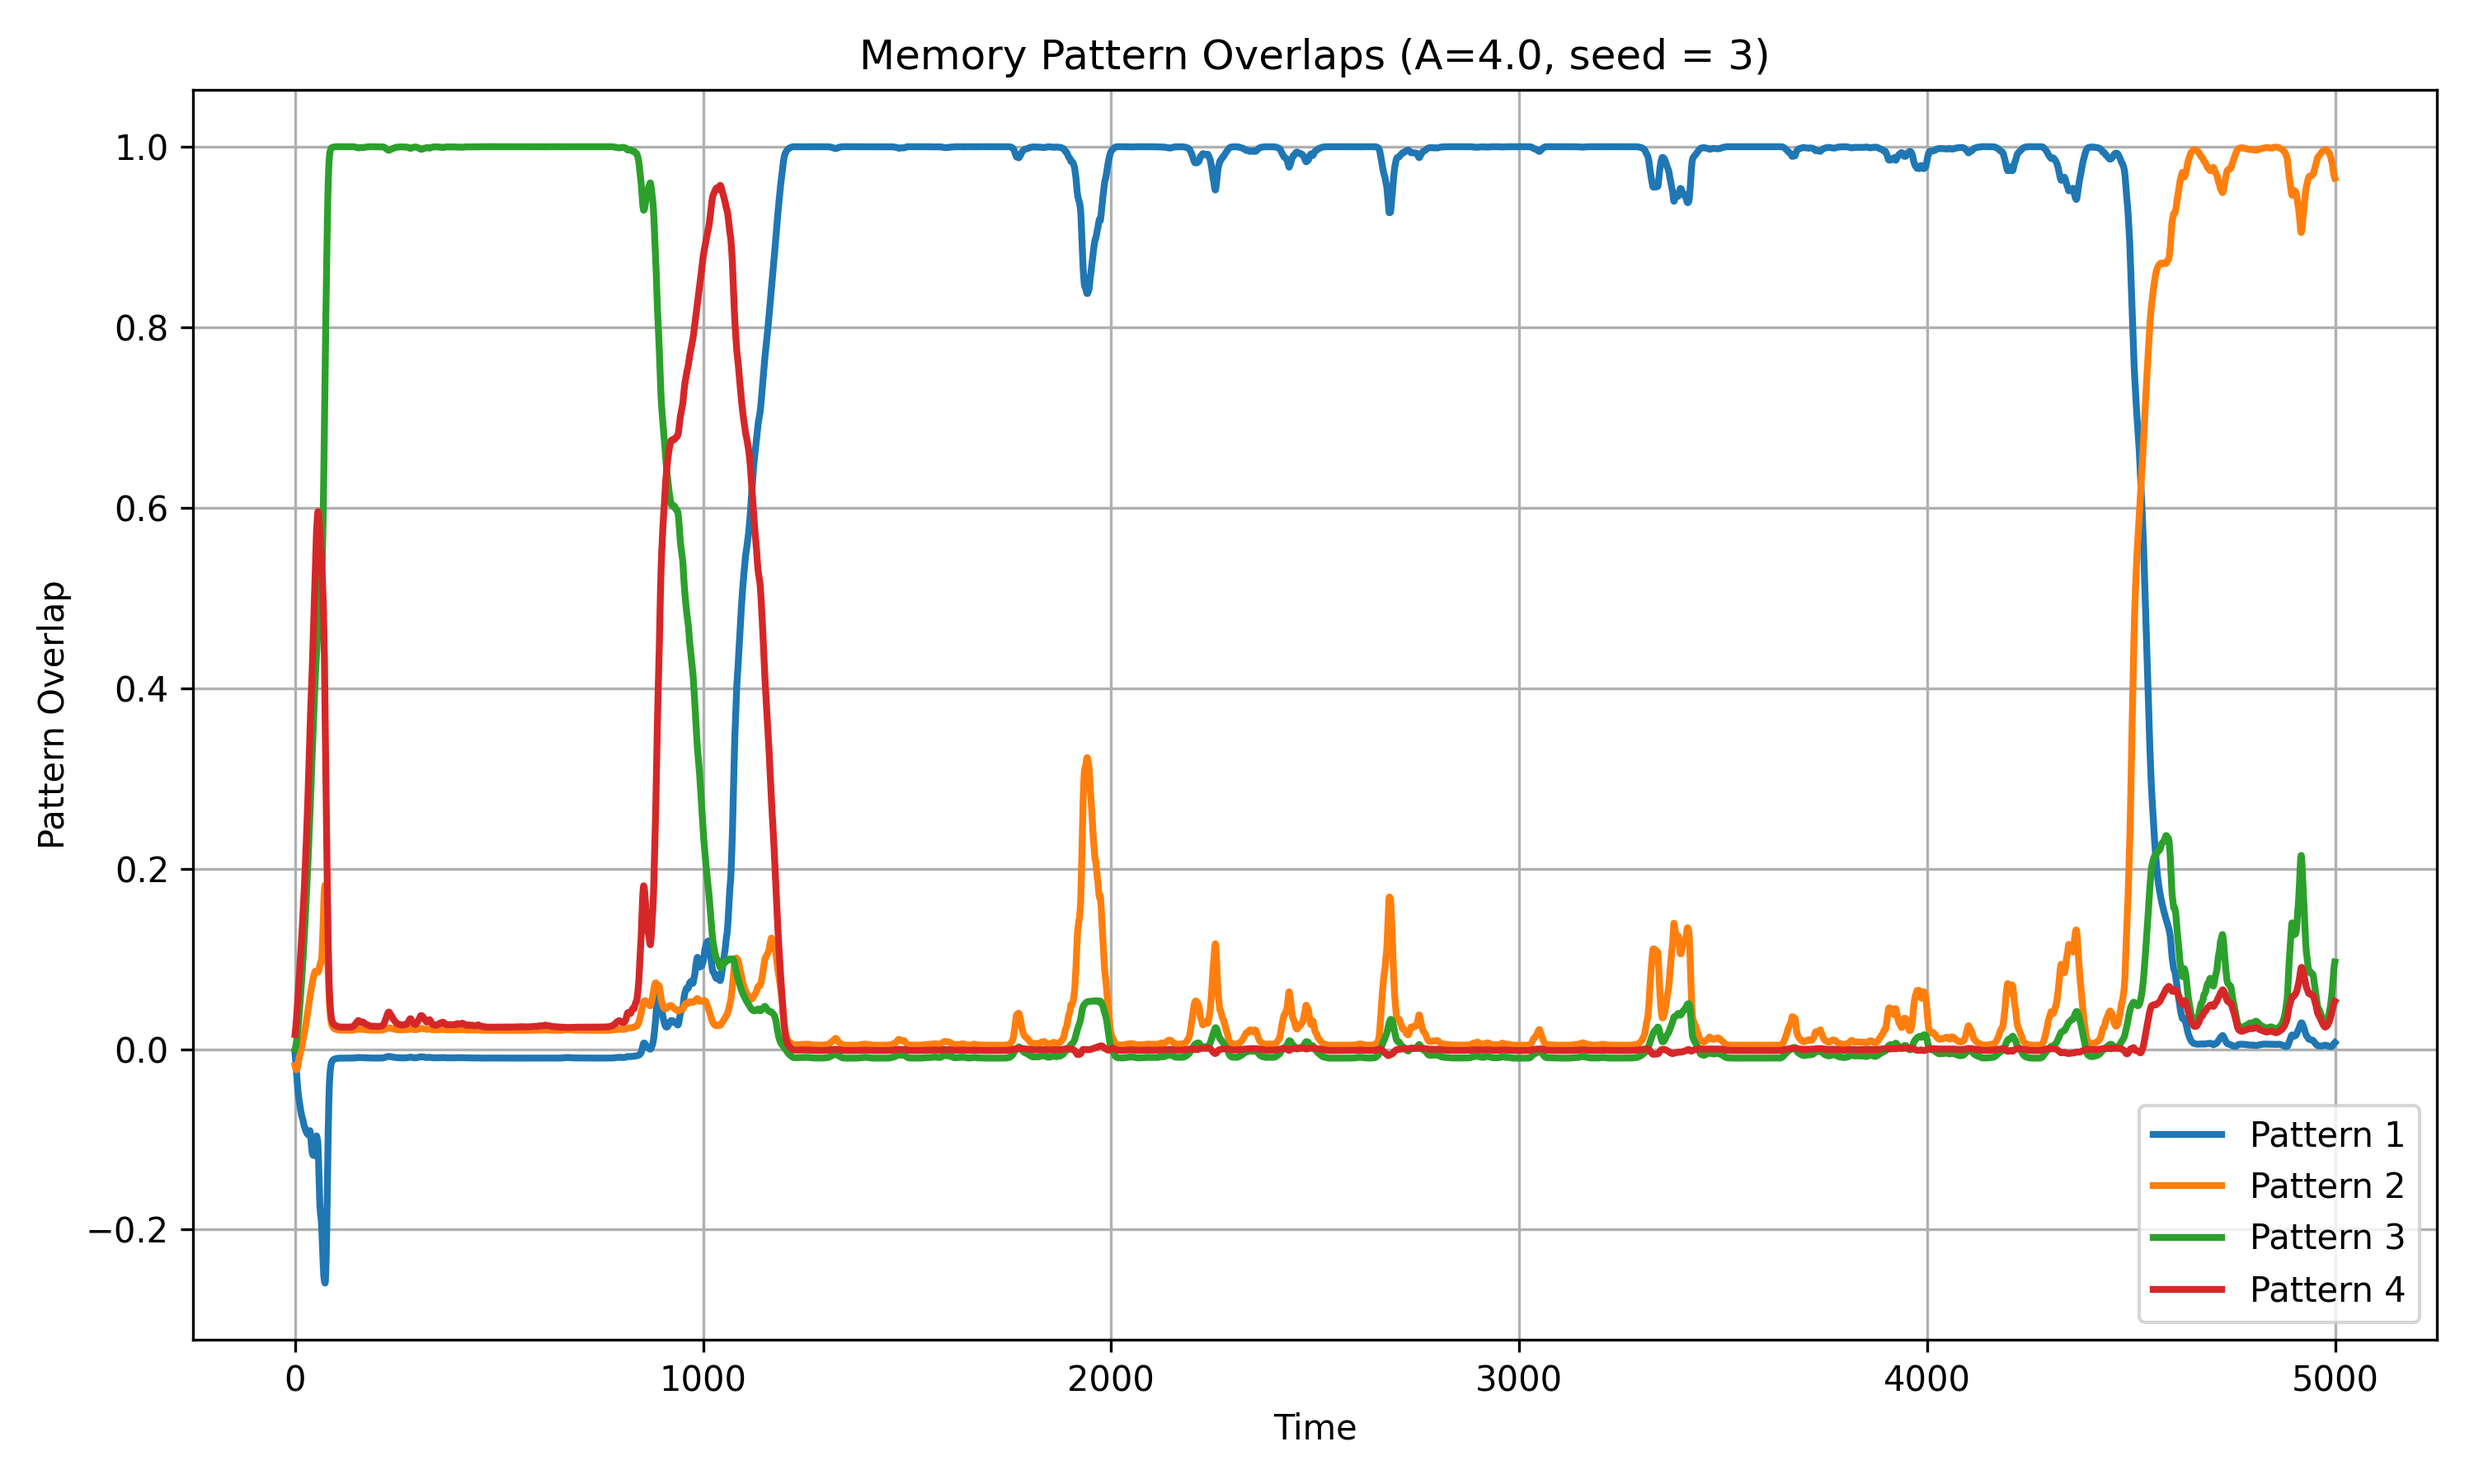
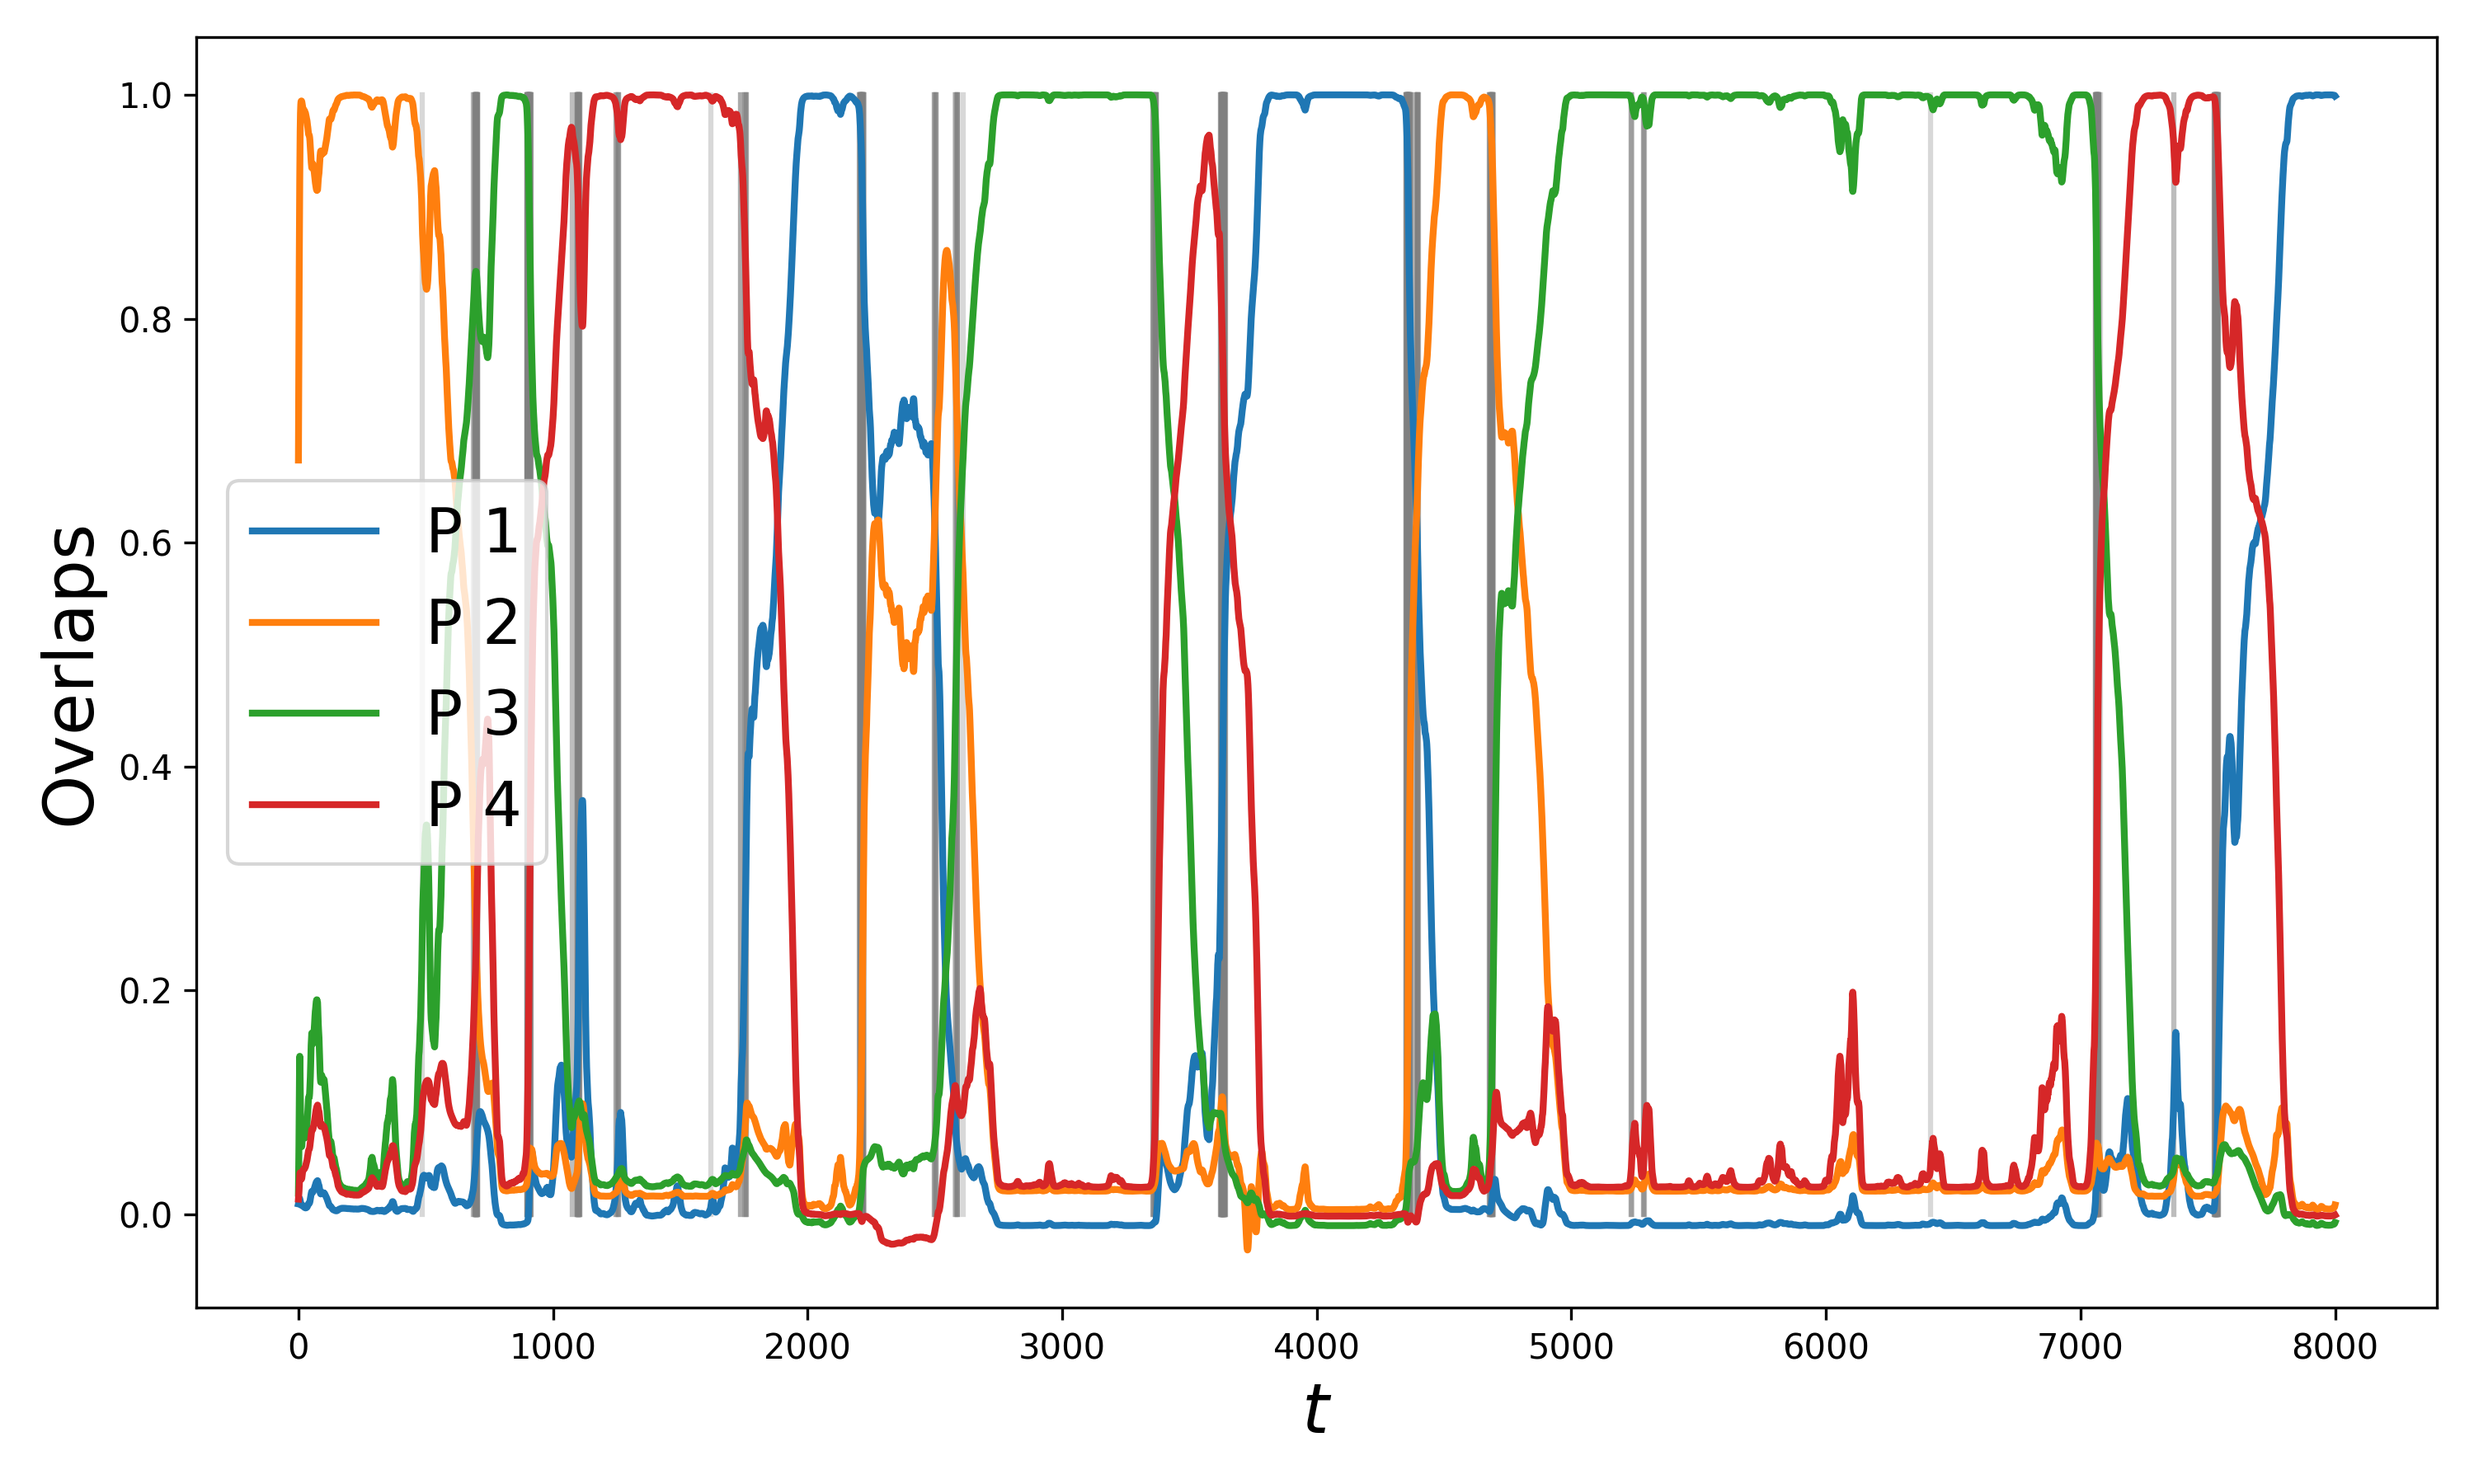
graphs

diff --git a/src/simulation.py b/src/simulation.py
@@ -192,7 +192,8 @@ def simulation():
         p=p,
         eta=eta,
         pattern_idx=pattern_idx,
-        noise_level=noise_level
+        noise_level=noise_level,
+        seed=seed+19
     )
 
     # Simulation time span
@@ -471,9 +472,9 @@ def simulation():
     ax = axs[0, 0]
     for i in range(n_plot):
         ax.plot(t, u[:, i], alpha=0.7, label=f'u_{i+1}')
-    ax.set_xlabel('Time')
-    ax.set_ylabel('Current')
-    ax.set_title(f'Neural Currents $u_i$ (first {n_plot} neurons)')
+    ax.set_xlabel('$t$', fontsize = 20)
+    ax.set_ylabel('$u_i$', fontsize = 20)
+    # ax.set_title(f'Neural Currents $u_i$ (first {n_plot} neurons)')
     ax.grid(True)
     if n_plot <= 5:
         ax.legend()
@@ -482,29 +483,15 @@ def simulation():
     ax = axs[0, 1]
     for i in range(n_plot):
         ax.plot(t, phi_u[:, i], alpha=0.7, label=f'φ(u_{i+1})')
-    ax.set_xlabel('Time')
-    ax.set_ylabel('FR')
-    ax.set_title(f'Firing Rates φ($u_i$) (first {n_plot} neurons)')
+    ax.set_xlabel('$t$', fontsize = 20)
+    ax.set_ylabel('FR', fontsize = 20)
+    # ax.set_title(f'Firing Rates φ($u_i$) (first {n_plot} neurons)')
     ax.grid(True)
     if n_plot <= 5:
         ax.legend()
 
-    # 3. Pattern Overlaps (bottom-left)
+    # 3. OU Process (bottom-right)
     ax = axs[1, 0]
-    if p > 0 and overlaps is not None:
-        for i in range(p):
-            ax.plot(t, overlaps[:, i], label=f'Pattern {i+1}', linewidth=2)
-        ax.set_xlabel('Time')
-        ax.set_ylabel('Pattern Overlap')
-        ax.set_title(f'Memory Pattern Overlaps (A={A_S}, seed = {seed})')
-        ax.grid(True)
-        ax.legend()
-    else:
-        ax.text(0.5, 0.5, 'No patterns to display', ha='center', va='center', transform=ax.transAxes)
-        ax.set_title('Pattern Overlaps')
-
-    # 4. OU Process (bottom-right)
-    ax = axs[1, 1]
     try:
         if zeta_array.size == 1:
             # Constant zeta case
@@ -519,21 +506,45 @@ def simulation():
                 tau_zeta_val = ou_params.get('tau_zeta', tau_zeta)
                 zeta_bar_val = ou_params.get('zeta_bar', zeta_bar)
                 sigma_zeta_val = ou_params.get('sigma_zeta', sigma_zeta)
-                legend_label = f'ζ(t) ($τ_ζ$={tau_zeta_val:.1f}, $\\bar{{ζ}}$={zeta_bar_val:.1f}, $σ_ζ$={sigma_zeta_val:.2f})'
-                ax.set_title('Ornstein-Uhlenbeck Control Signal ζ(t)')
+                legend_label = f'$τ_ζ$={tau_zeta_val:.2f}, $\\bar{{ζ}}$={zeta_bar_val:.2f}, $σ_ζ$={sigma_zeta_val:.2f}'
+                # set up an array with spikes of the OU process over a threshold (2.0)
+                spikes = np.where(zeta_array > 2.0)[0]
+                # ax.set_title('Ornstein-Uhlenbeck Control Signal ζ(t)')
             else:
                 legend_label = 'ζ(t)'
-                ax.set_title('Control Signal ζ(t)')
-            ax.plot(t, zeta_array, color='red', linewidth=1.5, label=legend_label)
-            ax.legend()
+                # ax.set_title('Control Signal ζ(t)')
+            # plot a line at 2
+            ax.axhline(y=2.0, color='gray', alpha=0.5)
+            ax.plot(t, zeta_array, color='k', linewidth=1.5, label=legend_label)
+            ax.legend(fontsize = 18)
 
-        ax.set_xlabel('Time')
-        ax.set_ylabel('ζ(t)')
+        ax.set_xlabel('$t$', fontsize = 20)
+        ax.set_ylabel('$\zeta(t)$', fontsize = 20)
         ax.grid(True)
     except Exception as e:
         logger.error(f"Warning: Could not create ζ(t) plot - {e}")
         ax.text(0.5, 0.5, f'OU Process Error: {e}', ha='center', va='center', transform=ax.transAxes)
         ax.set_title('OU Process')
+    
+    # 4. Pattern Overlaps (bottom-left)
+    ax = axs[1, 1]
+    # plot spikes if OU process had spikes
+    if spikes.size > 0:
+        for spike_time in t[spikes]:
+            ax.axvline(x=spike_time, color='gray', linestyle='--', alpha=0.3)
+    # plot a line at 0.8
+    ax.axhline(y=0.8, color='gray', alpha=0.5)
+    if p > 0 and overlaps is not None:
+        for i in range(p):
+            ax.plot(t, overlaps[:, i], label=f'P {i+1}', linewidth=2)
+        ax.set_xlabel('$t$', fontsize = 20)
+        ax.set_ylabel('Overlaps', fontsize = 20)
+        # ax.set_title(f'Memory Pattern Overlaps (A={A_S}, seed = {seed})')
+        ax.grid(False)
+        ax.legend()
+    else:
+        ax.text(0.5, 0.5, 'No patterns to display', ha='center', va='center', transform=ax.transAxes)
+        ax.set_title('Pattern Overlaps')
     
     plt.tight_layout()
     
@@ -542,7 +553,7 @@ def simulation():
     plt.savefig(complete_fig_path, dpi=300)
     
     # Extract and save individual plots from the 2x2 figure
-    titles = ['neural_currents', 'firing_rates', 'pattern_overlaps', 'ou_process']
+    titles = ['neural_currents', 'firing_rates', 'ou_process', 'pattern_overlaps']
     
     for i, ax in enumerate(axs.flat):
         fig_single, ax_single = plt.subplots(figsize=(10, 6))
@@ -555,14 +566,14 @@ def simulation():
                           linewidth=line.get_linewidth())
         
         # Copy title, labels, and legend
-        ax_single.set_title(ax.get_title())
-        ax_single.set_xlabel(ax.get_xlabel())
-        ax_single.set_ylabel(ax.get_ylabel())
-        ax_single.grid(True)
+        # ax_single.set_title(ax.get_title())
+        ax_single.set_xlabel(ax.get_xlabel(), fontsize = 20)
+        ax_single.set_ylabel(ax.get_ylabel(), fontsize = 20)
+        ax_single.grid(False)
         
         # Add legend if original had one
         if ax.get_legend() is not None:
-            ax_single.legend()
+            ax_single.legend(fontsize = 18)
         
         # Copy text annotations if any
         for text in ax.texts:

diff --git a/src/energy_plots.py b/src/energy_plots.py
@@ -166,24 +166,59 @@ def main():
     plt.savefig(os.path.join(output_dir, "energy_and_overlaps.png"))
     if show_sim_plots:
         plt.show()
+    
+    # Make a new plot but just with overlaps and energy
+    # make sure the energy takes the color of the winning overlap
+    fig, axs = plt.subplots(2, 1, figsize=(13, 8), gridspec_kw={'height_ratios': [1, 2]})
 
-    plt.figure(figsize=(12, 8))
-    plt.subplot(211)
     for i in range(p):
-        plt.plot(t, overlaps[i], label=f'P {i+1}')
-    plt.ylabel("Overlap")
-    plt.legend()
-    plt.subplot(212)
-    plt.plot(t, proj_flux_symm, label='Symm', color='purple')
-    plt.plot(t, proj_flux_asymm, label='Asymm', color='orange')
-    plt.axhline(0, color='gray', linestyle='--', alpha=0.5)
-    plt.ylabel("Flux Proj on Dynamics")
-    plt.xlabel("$t$")
-    plt.legend()
+        axs[0].plot(t, overlaps[i], label=f'P {i+1}')
+    axs[0].set_ylabel("Overlaps", fontsize=20)
+    axs[0].legend(fontsize=18)
+    axs[0].tick_params(axis='both', labelsize=18)
+
+
+    winning_pattern = np.argmax(overlaps, axis=0)
+    colors = plt.get_cmap('tab10').colors[:p]
+    E_symm_traj_N = E_symm_traj / N
+    for i in range(len(t)-1):
+        axs[1].plot(t[i:i+2], E_symm_traj_N[i:i+2], color=colors[winning_pattern[i]], linewidth=2)
+
+    axs[1].set_ylabel("$E/N$", fontsize=20)
+    axs[1].set_xlabel("$t$", fontsize=20)
+    axs[1].set_ylim(min(E_symm_traj_N[300:]) - 1, max(E_symm_traj_N[300:]) + 1)
+    axs[1].tick_params(axis='both', labelsize=18)
+
     plt.tight_layout()
-    plt.savefig(os.path.join(output_dir, "overlaps_and_flux_projection.png"))
+    plt.savefig(os.path.join(output_dir, "overlaps_energy.png"), bbox_inches='tight')
+
     if show_sim_plots:
         plt.show()
+
+    fig, axs = plt.subplots(2, 1, figsize=(12, 8), gridspec_kw={'height_ratios': [1, 2]})
+
+    for i in range(p):
+        axs[0].plot(t, overlaps[i], label=f'P {i+1}')
+    axs[0].set_ylabel("Overlaps", fontsize=20)
+    axs[0].legend(fontsize=18)
+    axs[0].tick_params(axis='both', labelsize=18)
+    axs[0].set_xlim(4100, 5100)
+
+    axs[1].plot(t, proj_flux_symm/N, label='Symm', color='k', alpha=0.6)
+    axs[1].plot(t, proj_flux_asymm/N, label='Asymm', color='k', ls='dotted')
+    axs[1].axhline(0, color='gray', linestyle='--', alpha=0.5)
+    axs[1].set_ylabel("Force Proj. / N", fontsize=20)
+    axs[1].set_xlabel("$t$", fontsize=20)
+    axs[1].legend(fontsize=18)
+    axs[1].tick_params(axis='both', labelsize=18)
+    axs[1].set_xlim(4100, 5100)
+
+    plt.tight_layout()
+    plt.savefig(os.path.join(output_dir, "overlaps_and_projections.png"))
+
+    if show_sim_plots:
+        plt.show()
+
 
 
 """

diff --git a/src/parameters.py b/src/parameters.py
@@ -53,7 +53,7 @@ apply_er_to_asymmetric = False  # Apply Erdős-Rényi to asymmetric component
 # Time and integration parameters
 tau = 20.0              # Time constant for neural dynamics
 t_start = 0.0           # Simulation start time
-t_end = 20.0           # Simulation end time
+t_end = 8000.0           # Simulation end time
 dt = 0.4                # Time step for simulation output (increased for efficiency)
 
 # Performance optimization
@@ -61,7 +61,7 @@ use_numba = True        # Enable Numba JIT compilation for large networks (N > 1
 use_g = True  # Whether to apply g function to patterns, default is True in Recanatesi et al.
 
 # Initial condition settings
-init_cond_type = "Random"  # Options: "Random", "Zero", "Memory Pattern", "Near Memory Pattern", "Negative Memory Pattern"
+init_cond_type = "Near Memory Pattern"  # Options: "Random", "Zero", "Memory Pattern", "Near Memory Pattern", "Negative Memory Pattern"
 pattern_idx = 1         # Which pattern to use (0-indexed) if using pattern-based init - neglected in multiple simulations
 noise_level = 0.5       # Noise level if using "Near Memory Pattern" init
 
@@ -84,7 +84,7 @@ constant_zeta = 1.     # Constant ζ value when OU is not used
 n_display = 10             # Maximum number of neurons to display in plots (reduced for 10k)
 show_sim_plots = False  # Whether to show individual plots for each variable
 plot_connectivity_matrices = False,
-plot_heatmap= False,
+plot_heatmap= True,
 verbose = False
 single_dir_name = "simulation_results_silly"
 multiple_dir_name = "multiple_simulations"

diff --git a/src/main.py b/src/main.py
@@ -194,6 +194,10 @@ def multiple_simulations():
     os.makedirs(plot_dir, exist_ok=True)
     logger.info(f"Output directories created at: {output_dir}")
 
+    # firing rates subdirectory
+    firing_rates_dir = os.path.join(npy_dir, "firing_rates")
+    os.makedirs(firing_rates_dir, exist_ok=True)
+
     connectivity_path_symmetric = os.path.join(npy_dir, "connectivity_symmetric.npy")
     connectivity_path_asymmetric = os.path.join(npy_dir, "connectivity_asymmetric.npy")
     phi_eta_path = os.path.join(npy_dir, "phi_memory_patterns.npy")
@@ -350,10 +354,6 @@ def multiple_simulations():
             logger.info("Numba optimization disabled")
     else:
         None
-    
-    # Saving common data in main npy dir
-    npy_dir = os.path.join(output_dir, "npy")
-    os.makedirs(npy_dir, exist_ok=True)
 
     # Save simulation parameters
     params = {

diff --git a/src/loader.py b/src/loader.py
@@ -35,9 +35,9 @@ phi_u = np.load(os.path.join(npy_dir, "firing_rates.npy"))
 zeta = np.load(os.path.join(npy_dir, "ou_process.npy"))
 params = np.load(os.path.join(npy_dir, "simulation_parameters.npy"), allow_pickle=True).item()
 
-N = params['N']
-n_display = params.get('n_display', min(5, N))
-p = params.get('p', 0)
+N = 1300
+n_display = 5
+p = 4
 
 # Try to load pattern overlaps if available
 overlaps = None
@@ -95,10 +95,10 @@ if np.all(zeta == zeta[0]):
     ax.set_title(f'Control Signal ζ(t) = {zeta_val:.2f} (constant)')
 else:
     ax.plot(t, zeta, color='red', linewidth=1.5, label='ζ(t)')
-    ax.set_title('Control Signal ζ(t)')
+    ax.set_title('$\zeta(t)$')
     ax.legend()
-ax.set_xlabel('Time')
-ax.set_ylabel('ζ(t)')
+ax.set_xlabel('$t$')
+ax.set_ylabel('$\zeta(t)$')
 ax.grid(True)
 
 plt.tight_layout()

diff --git a/src/modules/dynamics.py b/src/modules/dynamics.py
@@ -71,9 +71,11 @@ def simulate_ou_process(t_span, dt, tau_zeta, zeta_bar, sigma_zeta, seed=None):
 
     return t, zeta
 
-def initial_condition_creator(init_cond_type, N, p=0, eta=None, pattern_idx=None, noise_level=0.5):
+def initial_condition_creator(init_cond_type, N, p=0, eta=None, pattern_idx=None, noise_level=0.5, seed = None):
     """Create initial condition based on specified type."""
     # Set up initial condition with proper noise calculation
+    if seed is not None:
+        np.random.seed(seed)
     pattern_index = np.random.randint(0, p) if pattern_idx is None else pattern_idx
     if init_cond_type == "Random":
         initial_condition = np.random.normal(0, 0.1, N)
